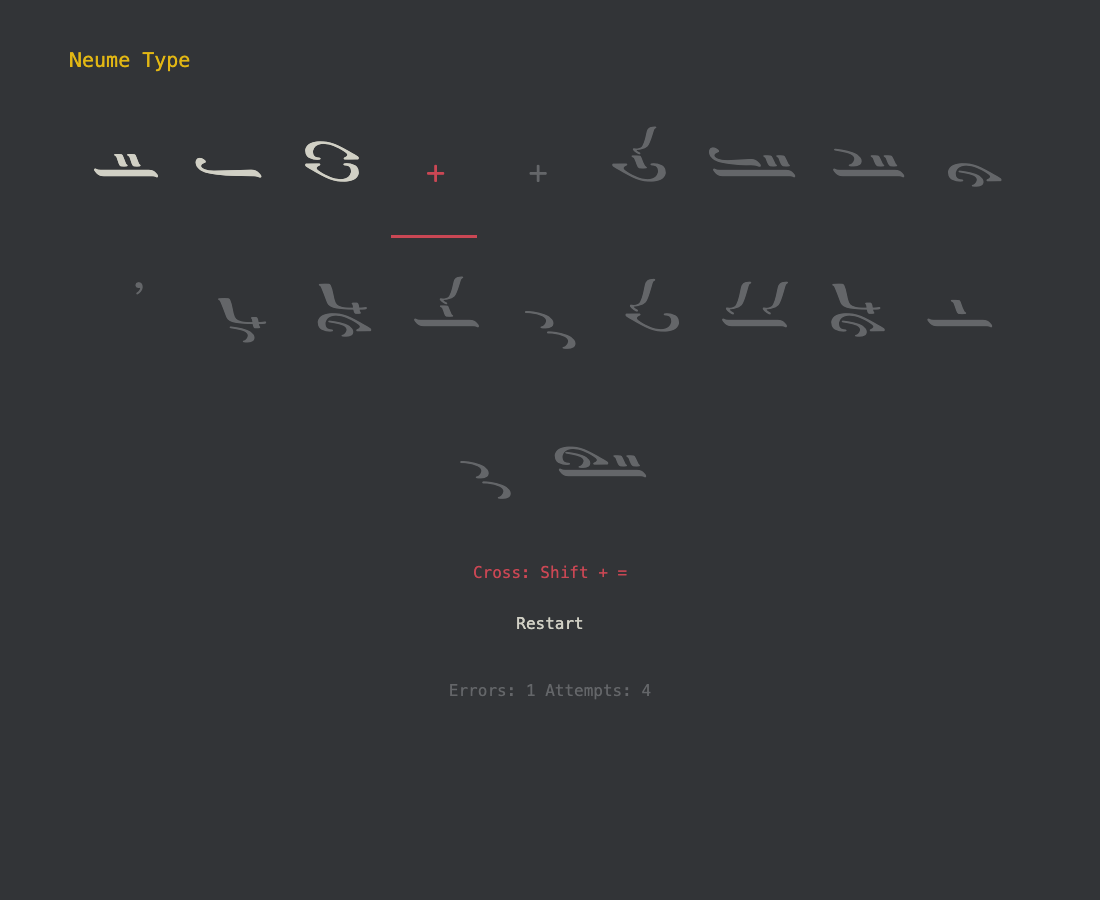
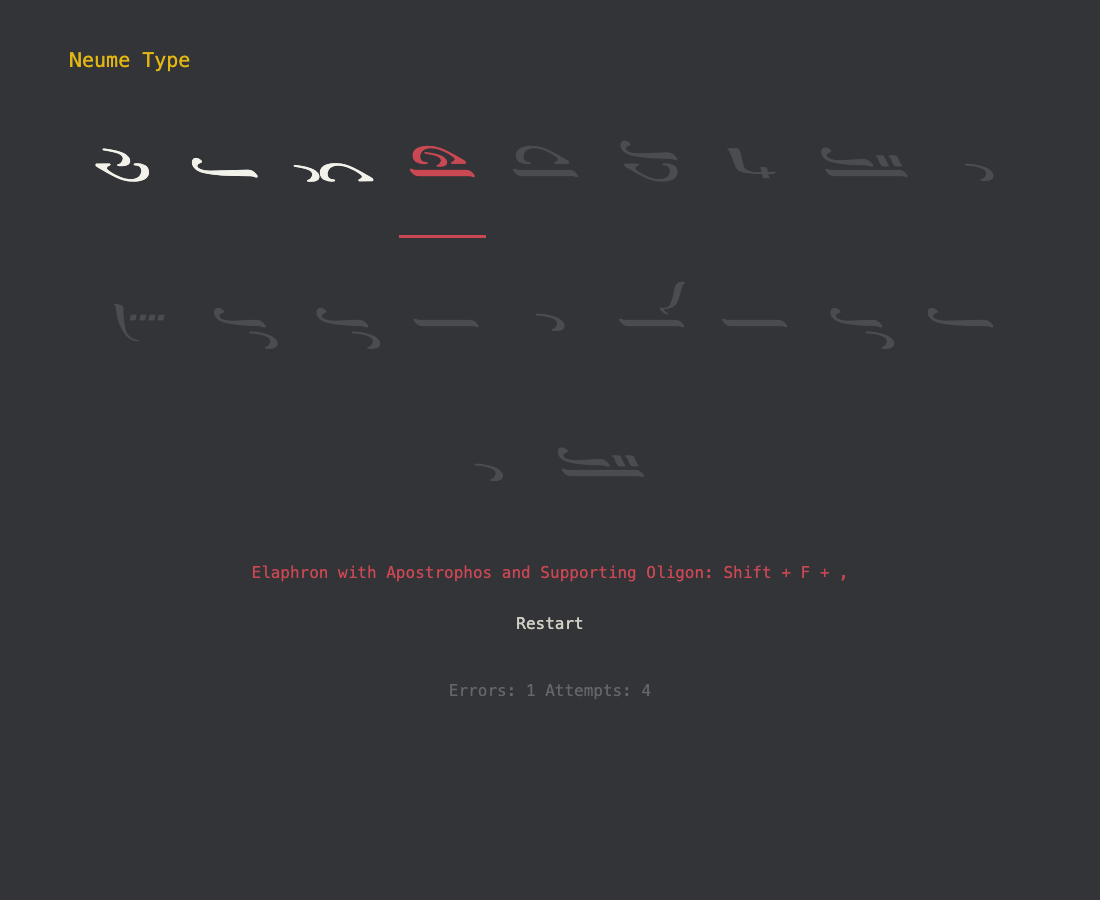
fix(ui): brighter done neumes, dimmer untyped neumes (T13) (#13)

diff --git a/e2e/look.spec.ts b/e2e/look.spec.ts
@@ -1,4 +1,5 @@
 import { expect, test } from '@playwright/test';
+import { advanceTo } from './helpers';
 
 test('no glyph clips at the chosen size', async ({ page }) => {
   await page.goto('/?debug');
@@ -25,4 +26,15 @@ test('no glyph clips at the chosen size', async ({ page }) => {
     return out;
   });
   expect(clipped).toEqual([]);
+});
+
+test('done neumes are near-white, untyped are dim, stats text keeps its grey', async ({ page }) => {
+  await page.goto('/?seed=1');
+  await advanceTo(page, 1);
+  const colour = (selector: string) =>
+    page.locator(selector).first().evaluate((el) => getComputedStyle(el).color);
+  expect(await colour('.neume[data-state="done"]')).toBe('rgb(242, 241, 234)');
+  expect(await colour('.neume[data-state="todo"]')).toBe('rgb(74, 76, 80)');
+  const stats = page.locator('p', { has: page.getByTestId('errors') });
+  expect(await stats.evaluate((el) => getComputedStyle(el).color)).toBe('rgb(100, 102, 105)');
 });

diff --git a/src/ui/look.css b/src/ui/look.css
@@ -3,6 +3,8 @@
   --accent: #e2b714;
   --untyped: #646669;
   --done: #d1d0c5;
+  --neume-todo: #4a4c50;
+  --neume-done: #f2f1ea;
   --error: #ca4754;
 }
 
@@ -55,10 +57,10 @@ h2 {
 }
 
 .neume[data-state='todo'] {
-  color: var(--untyped);
+  color: var(--neume-todo);
 }
 .neume[data-state='done'] {
-  color: var(--done);
+  color: var(--neume-done);
 }
 .neume[data-state='current'] {
   color: var(--accent);

diff --git a/PROGRESS.md b/PROGRESS.md
@@ -13,6 +13,7 @@
 - T9 (merged): D1 hint. `hintVisible` lives in `src/core/session.ts` (set by a wrong attempt, cleared by a correct one or restart); `src/core/shortcut.ts` builds text like `S + L` from keymap data. App shows `<name>: <shortcut>` (`data-testid=hint`). Unit tests plus `e2e/hint.spec.ts` (none at start, shown after wrong, gone on next neume, cleared by restart).
 - T10 (merged): `src/ui/look.css` (SPEC section 6 palette, centred column, system monospace, wrapping neume row, distinct current/done/untyped/error states); markup unchanged. `e2e/look.spec.ts` checks all 61 glyph ink boxes (canvas measureText) fit inside their element and viewport; mutation-checked by zeroing padding and line-height (fails). Screenshots in `docs/screenshots/` (test, hint, results). Hint e2e now asserts literal `S + L`.
 - T12 (PR open): weighted draw. `pitch` and `frequency` on all 61 keymap entries (transcribed from `docs/neume-weights.md` by script, values unchanged); `src/core/weights.ts` (`rawWeight`, `applyFloor`, `neumeChances`, constants `HALVING_FACTOR`, `UNCOMMON_MULTIPLIER`, `FIXED_WEIGHT`, `MIN_CHANCE`); `sampleTargets` draws from the cumulative chances. Doc test parses the markdown table and compares all 61 rows. Existing tests changed to the new spec: in `session.test.ts` the `rigged` helper now picks the middle of the named entry's chance slice (was an index over a uniform pool), and `maps the random range uniformly onto the pool, ends included` is renamed `maps the random range onto the pool in keymap order, ends included` with the same assertions. Mutation-checked: no floor, no uncommon multiplier, single-pass floor, changed pitch/class in the keymap, missing last-entry fallback, `<=` at a cumulative edge each fail tests. Ison 11.63%, Oligon, Petastē, Apostrophos and Ison and Apostrophos 5.82% each; 22 entries sit at the 0.25% floor.
+- T13 (PR open): neume state colours. New `--neume-done: #f2f1ea` and `--neume-todo: #4a4c50` used only by `.neume[data-state]`; `--untyped`/`--done` unchanged for labels, stats and buttons. `e2e/look.spec.ts` asserts computed colours (failed first with done `rgb(209, 208, 197)`). Screenshots regenerated. Low contrast is the owner's explicit choice.
 
 ## Next
 - T11 Human playtest.

diff --git a/SPEC.md b/SPEC.md
@@ -103,7 +103,7 @@ Keys are `↓` down and `↑` up. Each row is a required unit test.
 
 ## 6. Look
 
-Copy the layout and feel of default Monkeytype by eye, with no Monkeytype code or assets. Centred column, minimal chrome, system monospace stack for UI text, neumes in a wrapping row. Palette (approximate, recalled, not sourced): background `#323437`, accent/current `#e2b714`, untyped `#646669`, done `#d1d0c5`, error `#ca4754`.
+Copy the layout and feel of default Monkeytype by eye, with no Monkeytype code or assets. Centred column, minimal chrome, system monospace stack for UI text, neumes in a wrapping row. Palette (approximate, recalled, not sourced): background `#323437`, accent/current `#e2b714`, untyped text (labels, stats) `#646669`, error `#ca4754`. Neume states (owner's choice, T13): done `#f2f1ea` (very bright), untyped `#4a4c50` (deliberately low contrast, close to the background), current `#e2b714`. Buttons keep `#d1d0c5`.
 
 ## 7. Acceptance criteria
 

diff --git a/ORCHESTRATION_LOG.md b/ORCHESTRATION_LOG.md
@@ -63,6 +63,11 @@ Interpretation by main session: GitHub blocks approving your own PR and all agen
 
 Main session reported to the user. T11, the human playtest, remains open.
 
+## After the report: owner change requests
+
+- **T12, weighted draw:** the owner asked for a pitch-based curve and checked a draft table. Builder (both skills loaded) built PR #12; a fresh reviewer approved and merged. The move of the owner's untracked file left the reviewer unable to compare against it, so main session compared the PR's data to its record of the owner's saved edits: 61 rows, 0 differences. Lesson: when a task moves an input file, keep a copy for the reviewer.
+- **T13, neume colours:** the owner asked for typed neumes to be near white and untyped ones close to the background.
+
 ## Ambiguity notes
 
 - **Ambiguity found:** the user's approval allowed self-merge, but nothing in the permission settings reflects it, and the comment-based approval is not a GitHub review.

diff --git a/TASKS.md b/TASKS.md
@@ -97,3 +97,11 @@ Replace the uniform draw with the weighted one in SPEC section 3a. Add `pitch` a
 - **Done when:** SPEC criteria 12 to 14 pass, existing tests are as strict as before, and `npm run check` passes.
 - **Verified by:** Vitest, Playwright, mutation checks (drop the floor, ignore the uncommon multiplier).
 - **Autonomous:** yes.
+
+## T13. Neume state colours
+
+Owner request: typed neumes very bright, untyped neumes low contrast and close to the background. Done `#f2f1ea`, untyped `#4a4c50` on `#323437`. Current and error colours, labels and stats text unchanged. Low contrast is deliberate.
+
+- **Done when:** a Playwright test asserts the computed colours of a done and an untyped neume and that the stats text keeps `#646669`; screenshots regenerated; `npm run check` passes.
+- **Verified by:** Playwright, screenshot.
+- **Autonomous:** yes.
